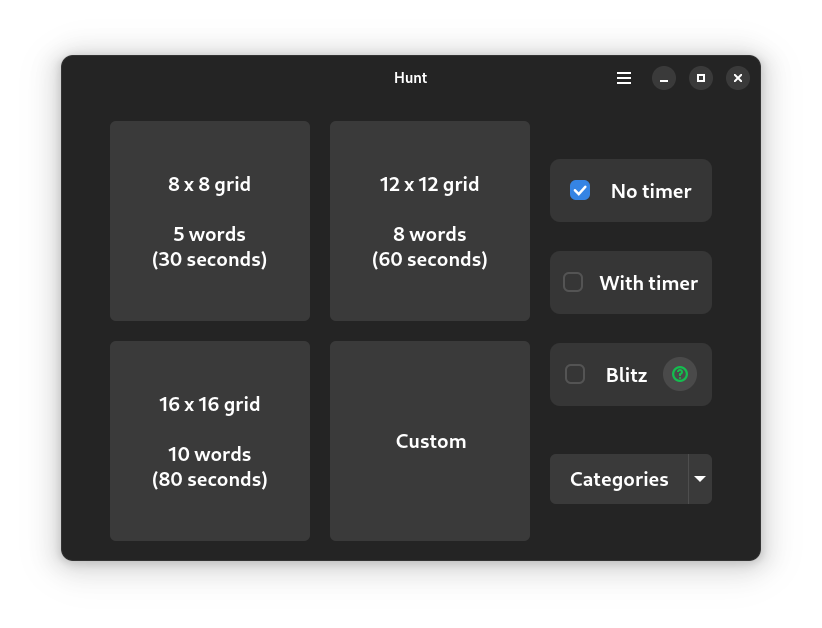
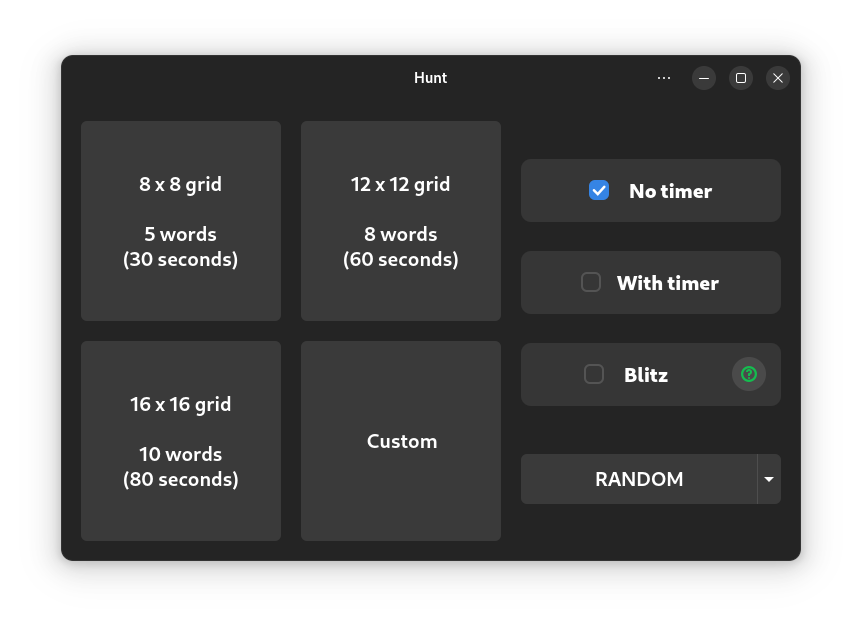
Files for v1.0.4

diff --git a/src/words.py b/src/words.py
@@ -29,7 +29,7 @@ related_words = {
     'PHOTOGRAPHY': ['photo', 'frame', 'lens', 'scene', 'focus', 'angle', 'light', 'flash', 'shot', 'view'],
     'ARCHITECTURE': ['build', 'house', 'tower', 'brick', 'urban', 'plans', 'roof', 'rooms', 'stone', 'wall'],
     'NATURE': ['plant', 'river', 'trees', 'grass', 'flora', 'field', 'woods', 'stone', 'bush', 'vine'],
-    'CRAFTS': ['sew', 'paint', 'knit', 'mold', 'lace', 'thread', 'bead', 'stitch', 'DIY', 'craft'],
+    'CRAFTS': ['sew', 'paint', 'knit', 'mold', 'lace', 'thread', 'bead', 'stitch', 'diy', 'craft'],
     'BOARD GAMES': ['chess', 'dice', 'clue', 'cards', 'risk', 'pawn', 'check', 'move', 'jenga', 'board'],
     'VIDEO GAMES': ['games', 'enemy', 'score', 'level', 'play', 'pixel', 'quest', 'shoot', 'jump', 'fight'],
     'GARDENING': ['plant', 'grow', 'prune', 'tools', 'soil', 'water', 'seeds', 'weeds', 'herbs', 'pots'],
@@ -80,6 +80,23 @@ related_words = {
     'WILDLIFE': ['deer', 'fox', 'wolf', 'bear', 'owl', 'eagle', 'snake', 'frog', 'moose', 'otter'],
     'SEASONS': ['summer', 'winter', 'autumn', 'spring', 'fall', 'season', 'harvest', 'snow', 'breeze', 'blossom'],
     'GEMS': ['diamond', 'ruby', 'lapis', 'opal', 'jasper', 'emerald', 'topaz', 'garnet', 'pearl', 'onyx'],
-    'EMOTIONS': ['happy', 'sad', 'angry', 'excited', 'fear', 'love', 'joy', 'angst', 'grief', 'relief']
+    'EMOTIONS': ['happy', 'sad', 'angry', 'excited', 'fear', 'love', 'joy', 'angst', 'grief', 'relief'],
+    'CANDY': ['sugar', 'fudge', 'candy', 'mint', 'gummy', 'sweet', 'treats', 'choco', 'caramel', 'nougat'],
+    'TOOLS': ['screw', 'drill', 'wrench', 'plier', 'knife', 'saw', 'level', 'ruler', 'blade', 'bolts'],
+    'ALIENS': ['alien', 'ufo', 'mars', 'green', 'ship', 'probe', 'beam', 'space', 'zoom', 'zap'],
+    'CASTLES': ['tower', 'moat', 'stone', 'arch', 'court', 'king', 'queen', 'walls', 'draw', 'gate'],
+    'ISLANDS': ['palm', 'sands', 'reef', 'coast', 'beach', 'sea', 'cove', 'boats', 'docks', 'tropic'],
+    'CLOWNS': ['clown', 'mime', 'wig', 'mask', 'red', 'nose', 'balloon', 'laugh', 'joke', 'prank'],
+    'GHOSTS': ['ghost', 'haunt', 'spook', 'ghoul', 'scare', 'crypt', 'eerie', 'fright', 'wail', 'chill'],
+    'CAVES': ['stone', 'bats', 'rocks', 'dark', 'stalag', 'depth', 'troll', 'echo', 'gloom', 'vault'],
+    'ROBOTS': ['servo', 'logic', 'cog', 'bolt', 'brain', 'cable', 'metal', 'tools', 'arm', 'gear'],
+    'TREES': ['oak', 'pine', 'bark', 'leaves', 'roots', 'twig', 'shade', 'apple', 'fruit', 'moss'],
+    'WIZARDS': ['magic', 'spell', 'cloak', 'staff', 'potion', 'witch', 'runes', 'charm', 'wand', 'books'],
+    'VOLCANO': ['lava', 'smoke', 'ash', 'crust', 'rock', 'fire', 'erupts', 'earth', 'crack', 'magma'],
+    'DRAGONS': ['scales', 'wings', 'fire', 'tail', 'claws', 'roar', 'flame', 'fangs', 'beast', 'lair'],
+    'MIRRORS': ['glass', 'frame', 'look', 'shine', 'image', 'reflect', 'ghost', 'room', 'angle', 'clean'],
+    'FAIRIES': ['pixie', 'tiny', 'wings', 'spark', 'magic', 'light', 'dust', 'charm', 'lore', 'elf'],
+    'MARKETS': ['trade', 'stalls', 'fruit', 'value', 'goods', 'crowd', 'money', 'sales', 'deals', 'price'],
+    'TUNNELS': ['earth', 'dark', 'shaft', 'mines', 'train', 'pipes', 'crawl', 'route', 'gates', 'dig']
 }
 

diff --git a/src/main.py b/src/main.py
@@ -1,6 +1,6 @@
 # main.py
 #
-# Copyright 2024 Nathan Perlman
+# Copyright 2025 Nathan Perlman
 #
 # This program is free software: you can redistribute it and/or modify
 # it under the terms of the GNU General Public License as published by
@@ -43,10 +43,10 @@ class HuntApplication(Adw.Application):
         about = Adw.AboutDialog(application_name='Hunt',
                                 application_icon='io.github.swordpuffin.hunt',
                                 developer_name='Nathan Perlman',
-                                version='1.0.3',
+                                version='1.0.4',
                                 issue_url='https://github.com/SwordPuffin/Hunt/issues',
                                 developers=['Nathan Perlman'],
-                                copyright='© 2024 Nathan Perlman')
+                                copyright='© 2025 Nathan Perlman')
         about.present(self.props.active_window)
 
     def create_action(self, name, callback, shortcuts=None):

diff --git a/src/window.py b/src/window.py
@@ -27,6 +27,7 @@ class HuntWindow(Adw.ApplicationWindow):
     category_list = Gtk.Template.Child()
     search_entry = Gtk.Template.Child()
     random_category = Gtk.Template.Child()
+    active_category = Gtk.Template.Child()
     length = 10
     height = 10
     words = []
@@ -111,9 +112,13 @@ class HuntWindow(Adw.ApplicationWindow):
 
     #Changes the active category depending on what row in self.category_list is selected
     def on_row_activated(self, listbox, row):
-        if(row is None):
-            row = self.random_category
-        self.selected_category = row.get_child().get_text()
+        if(row is not None):
+            self.selected_category = row.get_child().get_text()
+            self.active_category.get_first_child().set_label(row.get_child().get_text())
+        else:
+            self.selected_category = "RANDOM"
+            self.active_category.get_first_child().set_label("RANDOM")
+
 
     def question(self, action, _):
         dialog = Gtk.MessageDialog(

diff --git a/README.md b/README.md
@@ -36,3 +36,4 @@ If you are a graphic designer who can help with creating a better app icon, just
 
 Help with translations for languages other than English would also be nice.
 
+
